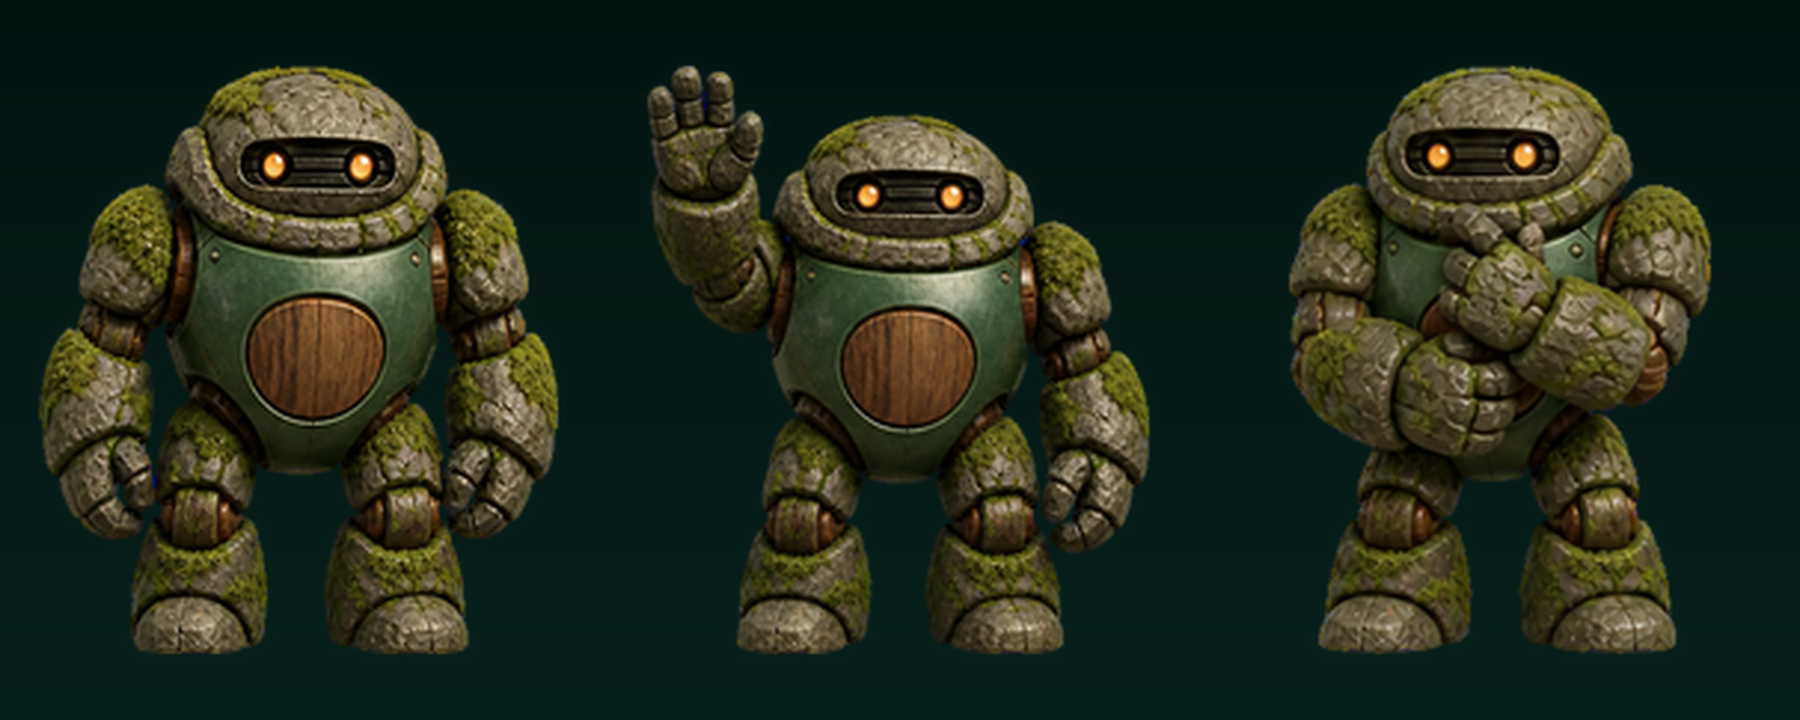
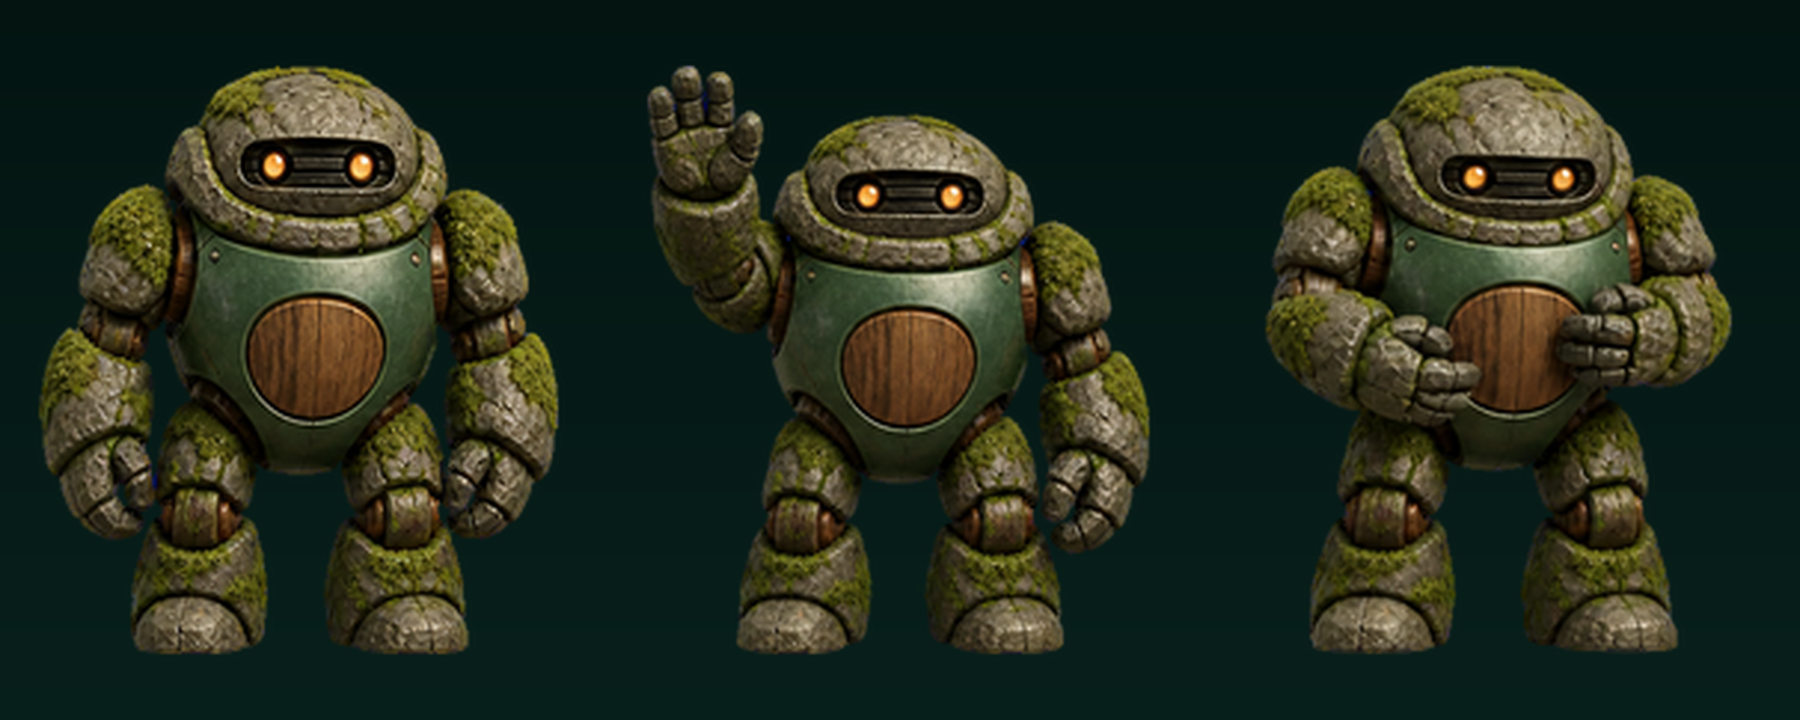
Repair Terra Golem animations

Changed region(s): [[0.6844, 0.0917, 0.9644, 0.9167]]

diff --git a/pets/terra-golem/hermes.md b/pets/terra-golem/hermes.md
@@ -24,4 +24,4 @@ Terra Golem is a squat, friendly forest-workshop familiar built from moss-covere
 
 ## Human guidance
 
-The published pet follows the user-selected bottom-left mossy golem from the retained four-concept reference. Structural and independent visual QA pass; preserved review warnings concern only accepted intermediate direction ambiguity and stable extraction, not a visible runtime defect.
+The published pet follows the user-selected bottom-left mossy golem from the retained four-concept reference. The failed and review rows use separated source poses so each frame has a complete silhouette and no neighboring-frame leakage. The active-work row is a custom planted “stonework computation” loop: Terra rhythmically calibrates its fixed wooden belly panel with both hands while its visor tracks the sequence. Structural and independent visual QA pass; preserved review warnings concern only accepted intermediate direction ambiguity.
